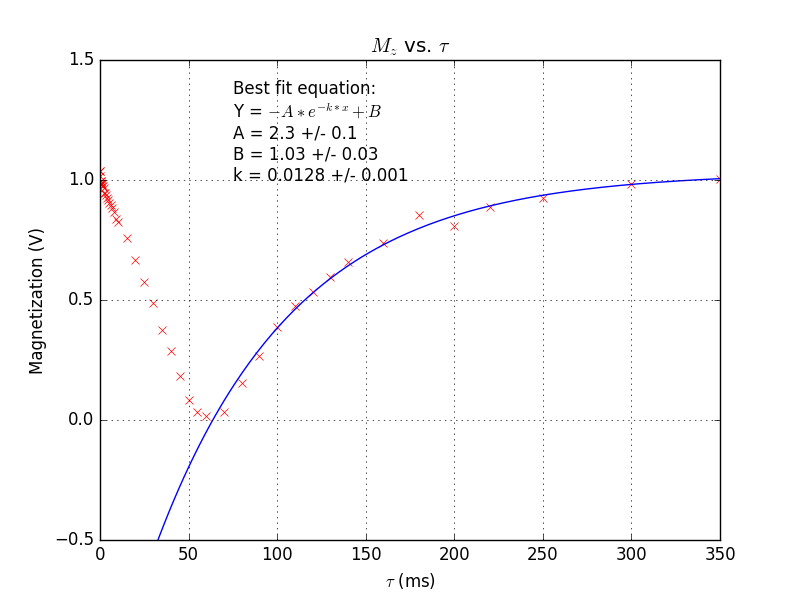
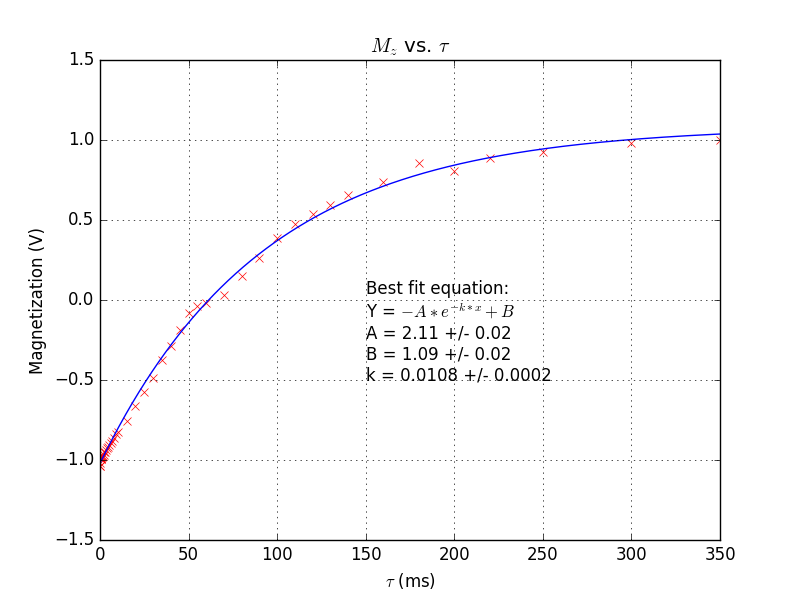
Adding the pictures, script, and data for the molar data plots. Fixed SL-relaxation-time-calc.py to adjust the initial data and flip the sign of the initial slope so that it looks like what is to be expected and can be included in the fit line.

diff --git a/pnmr/Molar-data/molar-data-plot.py b/pnmr/Molar-data/molar-data-plot.py
@@ -1,0 +1,77 @@
+#!/usr/bin/env python
+import matplotlib.pyplot as plt
+import numpy as np
+import sys
+from scipy.optimize import curve_fit
+
+def sig_fig(x,y):
+	return round(x,-int(np.floor(np.log10(abs(x))))), \
+				round(y,-int(np.floor(np.log10(abs(x)))))
+
+def func(x,a,b):
+	return a*x+b
+def main():
+	if len(sys.argv) > 2:
+		fn1 = open(sys.argv[1],'r')
+		fn2 = open(sys.argv[2],'r')
+	else:
+		print 'Cannot parse arguments\n'+ \
+			'Please input the arguments as\n'+ \
+			sys.argv[0]+' [T1 Molar Data] [T2 Molar Data]'
+		sys.exit()
+	t1 = []
+	mol = []
+	sigma_t1 = []
+	for i in fn1.readlines():
+		d = i.split()
+		t1.append(1/float(d[1]))
+		mol.append(float(d[0]))
+		sigma_t1.append(float(d[2]))
+	t2 = []
+	sigma_t2 = []
+	for i in fn2.readlines():
+		d = i.split()
+		t2.append(1/float(d[1]))
+		sigma_t2.append(float(d[2]))
+	p0 = (1,0)
+	param1,pcov1 = curve_fit(func,mol,t1,p0)
+	a1,b1 = param1
+	param2,pcov2 = curve_fit(func,mol,t2,p0)
+	a2,b2 = param2
+	mol1 = np.linspace(0,mol[-1],100)
+	t11 = func(mol1,a1,b1)
+	mol2 = np.linspace(0,mol[-1],100)
+	t22 = func(mol2,a2,b2)
+	sigma_a1,sigma_b1 = np.sqrt(np.diag(pcov1))
+	sigma_a2,sigma_b2 = np.sqrt(np.diag(pcov2))
+	round_a1 = sig_fig(sigma_a1,a1)
+	round_b1 = sig_fig(sigma_b1,b1)
+	round_a2 = sig_fig(sigma_a2,a2)
+	round_b2 = sig_fig(sigma_b2,b2)
+	t1_plot = plt.figure(1)
+	plt.plot(mol,t1,'ro',mol1,t11,'-b')
+#	plt.ylim([0,1.2])
+	plt.title('$1/T_1$ $vs.$ $M$')
+	plt.xlabel('$Molarity$')
+	plt.ylabel('$T_1 (ms)$')
+	plt.text(0.6,0.1, \
+		'Best fit equation:\nY = $a * x + b$\na = '+ \
+		str(round_a1[1])+' +/- '+str(round_a1[0])+'\nb = '+ \
+		str(round_b1[1])+' +/- '+str(round_b1[0]))
+	plt.grid()
+	t2_plot = plt.figure(2)
+	plt.plot(mol,t2,'ro',mol2,t22,'-b')
+#	plt.errorbar(t2,mol,xerr=sigma_t2)
+#	plt.ylim([0,1.2])
+	plt.title('$1/T_2$ $vs.$ $M$')
+	plt.xlabel('$Molarity$')
+	plt.ylabel('$T_2 (ms)$')
+	plt.text(0.6,0.1, \
+		'Best fit equation:\nY = $a * x + b$\na = '+ \
+		str(round_a2[1])+' +/- '+str(round_a2[0])+'\nb = '+ \
+		str(round_b2[1])+' +/- '+str(round_b2[0]))
+	plt.grid()
+	t1_plot.show()
+	t2_plot.show()
+	raw_input()
+main()

diff --git a/pnmr/scripts/SL-relaxation-time-calc.py b/pnmr/scripts/SL-relaxation-time-calc.py
@@ -26,17 +26,19 @@ def main():
 	for n in time.readlines():
 		x.append(float(n))
 	for j in range(len(x)-1):
-		if y[j] <= 0.5:
-			if y[j] <= y[j+1]:
-				if y[j+1] <= y[j+2]:
-					startpoint = j
-					break
-	xx = np.zeros(len(x[startpoint:]))
-	yy = np.zeros(len(y[startpoint:]))
-	xx [:] = x[startpoint:]
-	yy [:] = y[startpoint:]
+#		print y[j-1],y[j],y[j+1]
+		if y[j] <= y[j+1] and y[j] < 0.5:
+			if y[j] < y[j-1]:
+				for l in range(len(y[:j+1])):
+					y[l] = -1*y[l]
+				break
+#	print y
+#	xx = np.zeros(len(x[startpoint:]))
+#	yy = np.zeros(len(y[startpoint:]))
+#	xx [:] = x[startpoint:]
+#	yy [:] = y[startpoint:]
 	p0 = (1.,0.5e-2,0.947)
-	param, pcov = curve_fit(func, xx, yy, p0, method='lm')
+	param, pcov = curve_fit(func, x, y, p0, method='lm')
 	a,k,b = param
 	sigma_a,sigma_k,sigma_b = np.sqrt(np.diag(pcov))
 	round_a = sig_fig(sigma_a,a)
@@ -56,12 +58,12 @@ def main():
 	y2 = func(x2,a,k,b)
 #	raw = plt.figure(1)
 	plt.plot(x,y,'rx',x2,y2,'-b')
-	plt.ylim([-0.5,1.5])
+#	plt.ylim([-0.5,1.5])
 	plt.xlim([0,x[-1]])
 	plt.title(r'$M_z$ vs. $\tau$')
 	plt.xlabel(r'$\tau$ (ms)')
 	plt.ylabel('Magnetization (V)')
-	plt.text(500,0.75, \
+	plt.text(1000,-0.5, \
 		'Best fit equation:\nY = $-A * e^{-k*x} + B$\nA = '+ \
 		str(round_a[1])+' +/- '+str(round_a[0])+'\nB = '+ \
 		str(round_b[1])+' +/- '+str(round_b[0])+'\nk = '+ \

diff --git a/pnmr/scripts/SS-relaxation-time-calc.py b/pnmr/scripts/SS-relaxation-time-calc.py
@@ -82,7 +82,7 @@ def main():
 	plt.title(r'$M_z$ vs. $2\tau$')
 	plt.xlabel(r'$2\tau$ (ms)')
 	plt.ylabel('Magnetization (V)')
-	plt.text(20.0,4.0, \
+	plt.text(150,0.8, \
 		'Best fit equation:\nY = $-A * e^{-k*x}$\nA = '+ \
 		str(round_a[1])+' +/- '+str(round_a[0])+'\nk = '+ \
 #		str(round_b[1])+' +/- '+str(round_b[0])+'\nk = '+ \
